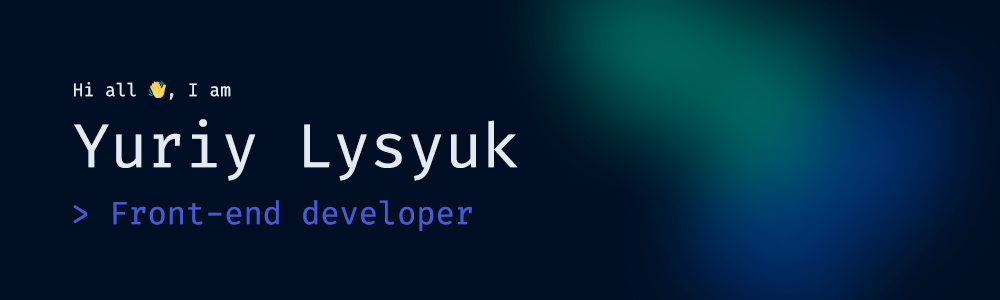
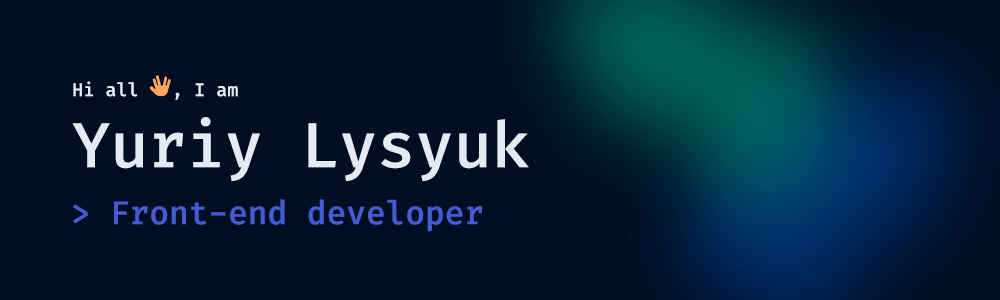
update header & about info

Changed region(s): [[0.062, 0.39, 0.527, 0.6], [0.093, 0.66, 0.496, 0.78], [0.062, 0.24, 0.248, 0.33]]

diff --git a/README.md b/README.md
@@ -4,10 +4,8 @@
 - 🌱 I'm currently learning JavaScript, React, Webpack and other cool stuff!
 - 👯 I'm looking to collaborate on full stack web apps!
 - 🤔 I'm looking for help with JavaScript and React
-- 💬 Ask me about hiking, rafting, coffee and fantastic books
 - 📫 How to reach me:
   - [Telegram](https://t.me/YuriyLysyuk)
-- 😄 Pronouns: he/him
 - ⚡ Fun fact: Even if you get eaten, you have two ways out
 
 <a href="https://www.codewars.com/users/YuriyLysyuk" target="_blank">![Yuriy Lysyuk Codewars stats](https://www.codewars.com/users/YuriyLysyuk/badges/large)</a>
